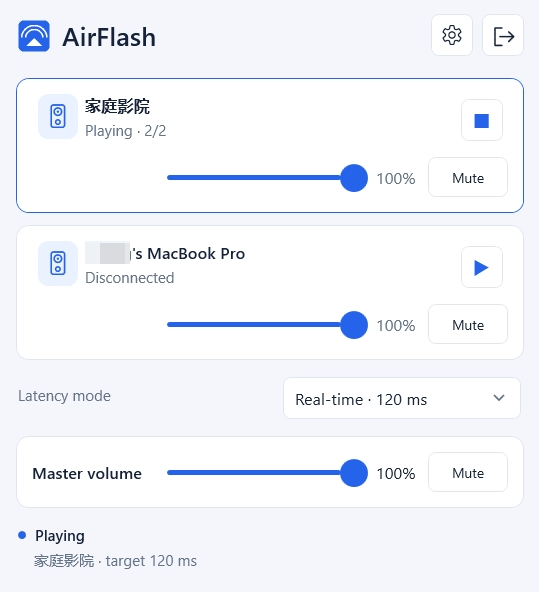
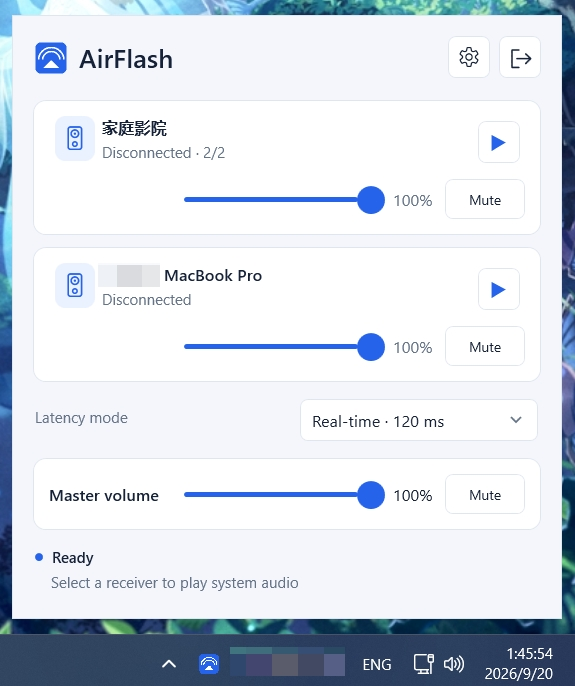
docs: refresh centered screenshots and TuneBlade introduction

diff --git a/README.md b/README.md
@@ -5,13 +5,16 @@
   <a href="docs/README.zh-CN.md">简体中文</a>
 </p>
 
-![AirFlash English interface](docs/images/airflash-en.png)
+<p align="center">
+  <img src="docs/images/airflash-en.png" alt="AirFlash English interface" width="550" />
+</p>
 
 Windows desktop audio streaming to HomePod over a native AirPlay 2 sender.
 AirFlash supports existing two-device stereo pairs and low-latency playback
 from Windows.
 
-> **Status:** early-stage release. Hardware coverage is intentionally narrow.
+AirFlash is an AirPlay 2 alternative to TuneBlade (AirPlay 1), designed to bring
+Windows audio streaming to HomePods running newer versions of HomePod software.
 
 ## Installation
 

diff --git a/docs/README.zh-CN.md b/docs/README.zh-CN.md
@@ -5,13 +5,16 @@
   <a href="README.zh-CN.md">简体中文</a>
 </p>
 
-![AirFlash 中文界面](images/airflash-zh-CN.png)
+<p align="center">
+  <img src="images/airflash-zh-CN.png" alt="AirFlash 中文界面" width="550" />
+</p>
 
 通过原生 AirPlay 2 发送端，将 Windows 桌面声音低延迟发送到 HomePod。
 AirFlash 支持现有的双 HomePod 立体声组合，并针对 Windows 音频播放场景
 优化延迟。
 
-> **状态：** 早期版本。当前硬件覆盖范围较窄。
+AirFlash 是 TuneBlade（AirPlay 1）的 AirPlay 2 替代方案，旨在让 Windows
+能够向运行较新版本 HomePod 软件的设备流送音频。
 
 ## 安装
 
